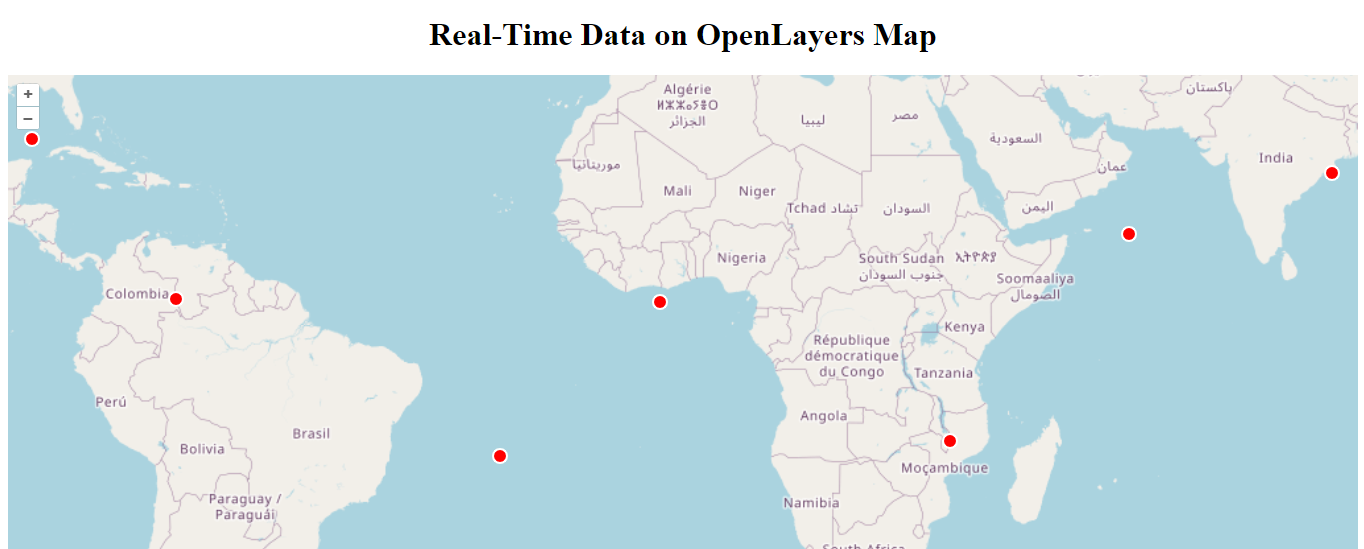
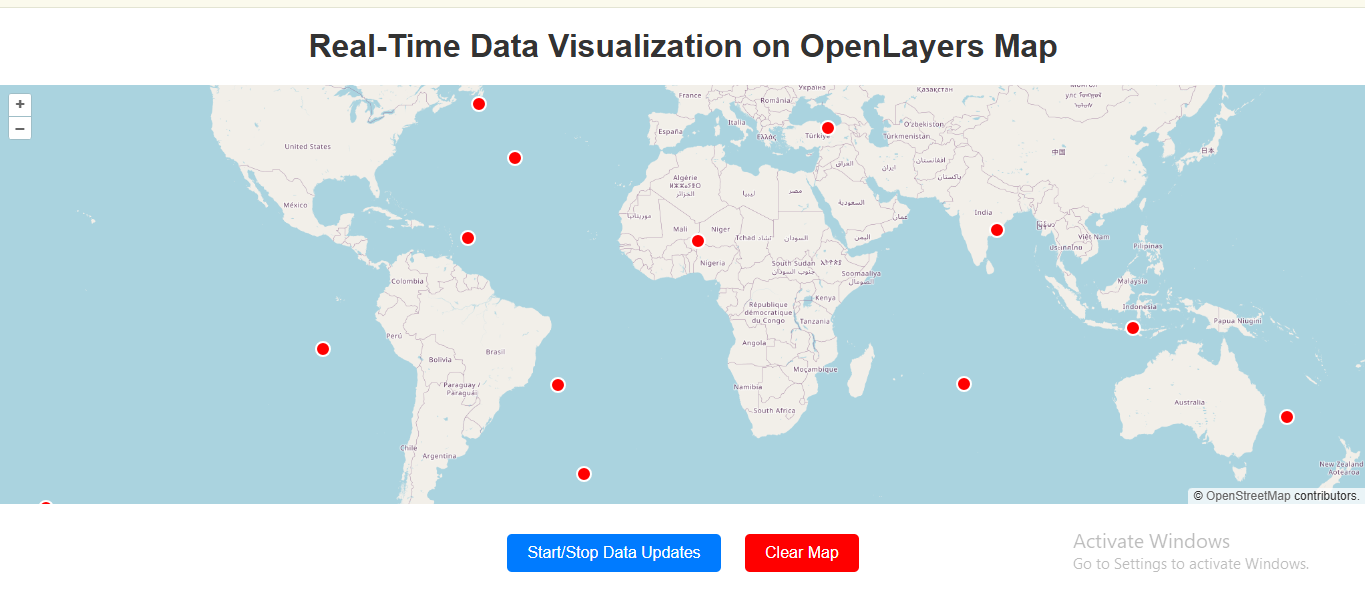
Add files via upload

diff --git a/script.js b/script.js
@@ -1,44 +1,62 @@
-    // Create a map with OpenStreetMap as the base layer
-    const map = new ol.Map({
-        target: 'map',
-        layers: [
-          new ol.layer.Tile({
-            source: new ol.source.OSM() // OpenStreetMap layer
-          })
-        ],
-        view: new ol.View({
-          center: ol.proj.fromLonLat([0, 0]), // Initial center: Longitude, Latitude
-          zoom: 2 // Initial zoom level
-        })
-      });
-  
-      // Create a vector source to hold real-time features
-      const vectorSource = new ol.source.Vector();
-  
-      // Create a vector layer and add it to the map
-      const vectorLayer = new ol.layer.Vector({
-        source: vectorSource,
-        style: new ol.style.Style({
-          image: new ol.style.Circle({
-            radius: 7,
-            fill: new ol.style.Fill({ color: 'red' }),
-            stroke: new ol.style.Stroke({ color: 'white', width: 2 })
-          })
-        })
-      });
-      map.addLayer(vectorLayer);
-  
-      // Function to add a feature (point) to the map
-      function addFeature(lon, lat) {
-        const feature = new ol.Feature({
-          geometry: new ol.geom.Point(ol.proj.fromLonLat([lon, lat]))
-        });
-        vectorSource.addFeature(feature);
-      }
-  
-      // Simulate real-time data by adding random points every 2 seconds
-      setInterval(() => {
-        const lon = -180 + Math.random() * 360; // Random longitude
-        const lat = -90 + Math.random() * 180;  // Random latitude
-        addFeature(lon, lat); // Add the new point
-      }, 2000); // Add a point every 2 seconds
+// Create a map with OpenStreetMap as the base layer
+const map = new ol.Map({
+  target: 'map',
+  layers: [
+    new ol.layer.Tile({
+      source: new ol.source.OSM() // OpenStreetMap layer
+    })
+  ],
+  view: new ol.View({
+    center: ol.proj.fromLonLat([0, 0]), // Initial center: Longitude, Latitude
+    zoom: 2 // Initial zoom level
+  })
+});
+
+// Create a vector source to hold real-time features
+const vectorSource = new ol.source.Vector();
+
+// Create a vector layer and add it to the map
+const vectorLayer = new ol.layer.Vector({
+  source: vectorSource,
+  style: new ol.style.Style({
+    image: new ol.style.Circle({
+      radius: 7,
+      fill: new ol.style.Fill({ color: 'red' }),
+      stroke: new ol.style.Stroke({ color: 'white', width: 2 })
+    })
+  })
+});
+map.addLayer(vectorLayer);
+
+// Function to add a feature (point) to the map
+function addFeature(lon, lat) {
+  const feature = new ol.Feature({
+    geometry: new ol.geom.Point(ol.proj.fromLonLat([lon, lat]))
+  });
+  vectorSource.addFeature(feature);
+}
+
+// Interval for real-time data updates
+let interval;
+
+// Start/Stop data updates
+document.getElementById('toggle').addEventListener('click', () => {
+  if (interval) {
+    clearInterval(interval);
+    interval = null;
+    alert('Real-time updates stopped.');
+  } else {
+    interval = setInterval(() => {
+      const lon = -180 + Math.random() * 360; // Random longitude
+      const lat = -90 + Math.random() * 180;  // Random latitude
+      addFeature(lon, lat); // Add the new point
+    }, 2000); // Add a point every 2 seconds
+    alert('Real-time updates started.');
+  }
+});
+
+// Clear all points from the map
+document.getElementById('clear').addEventListener('click', () => {
+  vectorSource.clear();
+  alert('Map cleared.');
+});

diff --git a/Real-Time Data Visualization with OpenLayers.html b/Real-Time Data Visualization with OpenLayers.html
@@ -3,18 +3,45 @@
 <head>
   <meta charset="UTF-8">
   <meta name="viewport" content="width=device-width, initial-scale=1.0">
-  <title>OpenLayers Real-Time Map</title>
+  <title>Real-Time Data Visualization</title>
   <link rel="stylesheet" href="https://cdn.jsdelivr.net/npm/ol@latest/ol.css">
   <style>
+    body {
+      font-family: Arial, sans-serif;
+      text-align: center;
+      margin: 0;
+      padding: 0;
+    }
+    h1 {
+      margin: 20px;
+      color: #333;
+    }
     #map {
       width: 100%;
-      height: 500px;
+      height: 70vh;
+      margin: 20px 0;
+    }
+    button {
+      padding: 10px 20px;
+      margin: 10px;
+      border: none;
+      background-color: #007BFF;
+      color: white;
+      cursor: pointer;
+      font-size: 16px;
+      border-radius: 5px;
+    }
+    button:hover {
+      background-color: #0056b3;
     }
   </style>
 </head>
 <body>
-  <h1 style="text-align: center;">Real-Time Data on OpenLayers Map</h1>
+  <h1>Real-Time Data Visualization on OpenLayers Map</h1>
   <div id="map"></div>
+  <button id="toggle">Start/Stop Data Updates</button>
+  <button id="clear" style="background-color: red;">Clear Map</button>
+
   <script src="https://cdn.jsdelivr.net/npm/ol@latest/dist/ol.js"></script>
   <script src="script.js"></script>
 </body>
